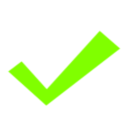
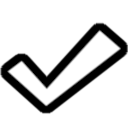
Add libjpeg-turbo submodule and update checkmark color
- Add libjpeg-turbo as a submodule in lib/ - Update check.png asset -
Refactor main.cpp: remove unused menu code, improve photo selection
logic, change checkmark highlight to use COLOR_SELECTED_GREEN

diff --git a/src/main.cpp b/src/main.cpp
@@ -59,230 +59,27 @@ struct Photo {
 
 std::vector<Photo> photos;
 
-inline void DropDownMenuSeperator() {
-  CLAY({
-      .layout =
-          {
-              .sizing =
-                  {
-                      .width = CLAY_SIZING_GROW(0),
-                      .height = CLAY_SIZING_FIT(0),
-                  },
-              .padding =
-                  {
-                      .left = 0,
-                      .right = 0,
-                      .top = 2,
-                      .bottom = 2,
-                  },
-          },
-  }) {
-    CLAY({
-        .layout =
-            {
-                .sizing =
-                    {
-                        .width = CLAY_SIZING_GROW(0),
-                        .height = CLAY_SIZING_FIXED(1),
-                    },
-            },
-        .backgroundColor = COLOR_GREY,
-    }) {}
-  }
-}
-
-inline void DropDownMenuButton(Clay_String label) {
-  CLAY({
-      .layout =
-          {
-              .sizing =
-                  {
-                      .width = CLAY_SIZING_GROW(0),
-                      .height = CLAY_SIZING_FIT(0),
-                  },
-              .padding =
-                  {
-                      .left = 4,
-                      .right = 4,
-                      .top = 4,
-                      .bottom = 4,
-                  },
-              .childAlignment =
-                  {
-                      .x = CLAY_ALIGN_X_LEFT,
-                      .y = CLAY_ALIGN_Y_CENTER,
-                  },
-          },
-      .backgroundColor = Clay_Hovered() ? COLOR_GREY : COLOR_DARK_GREY,
-      .cornerRadius =
-          {
-              .topLeft = 3,
-              .topRight = 3,
-              .bottomLeft = 3,
-              .bottomRight = 3,
-          },
-  }) {
-    CLAY_TEXT(label, CLAY_TEXT_CONFIG({
-                         .textColor = {255, 255, 255, 255},
-                         .fontSize = 12,
-                     }));
-  }
-}
-
-inline void SessionDropdownMenu() {
-  DropDownMenuButton(CLAY_STRING("New Session"));
-  DropDownMenuButton(CLAY_STRING("Open Session..."));
-  DropDownMenuSeperator();
-  DropDownMenuButton(CLAY_STRING("Save Session"));
-  DropDownMenuButton(CLAY_STRING("Save Session As..."));
-  DropDownMenuSeperator();
-  DropDownMenuButton(CLAY_STRING("Close Session"));
-  DropDownMenuButton(CLAY_STRING("Exit"));
-}
-
-inline void EditDropdownMenu() {
-  DropDownMenuButton(CLAY_STRING("Undo"));
-  DropDownMenuButton(CLAY_STRING("Redo"));
-  DropDownMenuSeperator();
-  DropDownMenuButton(CLAY_STRING("Cut"));
-  DropDownMenuButton(CLAY_STRING("Copy"));
-  DropDownMenuButton(CLAY_STRING("Paste"));
-  DropDownMenuSeperator();
-  DropDownMenuButton(CLAY_STRING("Delete Selected"));
-  DropDownMenuButton(CLAY_STRING("Select All"));
-}
-
-inline void ViewDropdownMenu() {
-  DropDownMenuButton(CLAY_STRING("Zoom In"));
-  DropDownMenuButton(CLAY_STRING("Zoom Out"));
-  DropDownMenuButton(CLAY_STRING("Actual Size"));
-  DropDownMenuSeperator();
-  DropDownMenuButton(CLAY_STRING("Show Grid"));   // Toggle or submenu
-  DropDownMenuButton(CLAY_STRING("Show Rulers")); // Toggle or submenu
-  DropDownMenuSeperator();
-  DropDownMenuButton(CLAY_STRING("Fullscreen"));
-  DropDownMenuButton(CLAY_STRING("Preferences..."));
-}
-
-inline void HelpDropdownMenu() {
-  DropDownMenuButton(CLAY_STRING("View Help"));
-  DropDownMenuButton(CLAY_STRING("Keyboard Shortcuts"));
-  DropDownMenuSeperator();
-  DropDownMenuButton(CLAY_STRING("Check for Updates..."));
-  DropDownMenuSeperator();
-  DropDownMenuButton(CLAY_STRING("About PhotoSorter"));
-}
-
-inline void MenuBarButton(Clay_String label, void (*dropdown_menu)()) {
-  CLAY({
-      .id = CLAY_SIDI(label, 0),
-      .layout =
-          {
-              .sizing = {.width = CLAY_SIZING_FIT(0),
-                         .height = CLAY_SIZING_FIT(0)},
-              .padding =
-                  {
-                      .left = 4,
-                      .right = 4,
-                      .top = 4,
-                      .bottom = 4,
-                  },
-              .childAlignment =
-                  {
-                      .x = CLAY_ALIGN_X_CENTER,
-                      .y = CLAY_ALIGN_Y_CENTER,
-                  },
-          },
-      .backgroundColor = Clay_Hovered() ? COLOR_GREY : COLOR_DARK_GREY,
-      .cornerRadius =
-          {
-              .topLeft = 3,
-              .topRight = 3,
-              .bottomLeft = 3,
-              .bottomRight = 3,
-          },
-  }) {
-    CLAY_TEXT(label, CLAY_TEXT_CONFIG({
-                         .textColor = {255, 255, 255, 255},
-                         .fontSize = 12,
-                     }));
-
-    bool file_menu_visible =
-        Clay_PointerOver(Clay_GetElementIdWithIndex(label, 0)) ||
-        Clay_PointerOver(Clay_GetElementIdWithIndex(label, 1));
-
-    if (file_menu_visible) {
-      CLAY({
-          .id = CLAY_SIDI(label, 1),
-          .layout =
-              {
-                  .sizing =
-                      {
-                          .width = CLAY_SIZING_FIXED(192),
-                          .height = CLAY_SIZING_FIT(0),
-                      },
-                  .padding = CLAY_PADDING_ALL(3),
-              },
-          .backgroundColor = COLOR_WHITE,
-          .cornerRadius =
-              {
-                  .topLeft = 8,
-                  .topRight = 8,
-                  .bottomLeft = 8,
-                  .bottomRight = 8,
-              },
-          .floating =
-              {
-                  .zIndex = 1,
-                  .attachPoints =
-                      {
-                          .parent = CLAY_ATTACH_POINT_LEFT_BOTTOM,
-                      },
-                  .attachTo = CLAY_ATTACH_TO_PARENT,
-              },
-          .border =
-              {
-                  .color = COLOR_BLACK,
-                  .width =
-                      {
-                          .left = 2,
-                          .right = 2,
-                          .top = 2,
-                          .bottom = 2,
-                      },
-              },
-      }) {
-        CLAY({
-            .layout =
-                {
-                    .sizing =
-                        {
-                            .width = CLAY_SIZING_GROW(0),
-                            .height = CLAY_SIZING_GROW(0),
-                        },
-                    .padding = CLAY_PADDING_ALL(2),
-                    .layoutDirection = CLAY_TOP_TO_BOTTOM,
-                },
-            .backgroundColor = COLOR_DARK_GREY,
-            .cornerRadius =
-                {
-                    .topLeft = 5,
-                    .topRight = 5,
-                    .bottomLeft = 5,
-                    .bottomRight = 5,
-                },
-        }) {
-          dropdown_menu();
-        }
-      }
+int get_selected_photos_count() {
+  int count = 0;
+  for (auto photo : photos) {
+    if (photo.selected) {
+      count++;
     }
   }
+  return count;
 }
 
-std::string edge_sheen_path = "res/edge_sheen.png";
+void handle_clay_errors(Clay_ErrorData errorData) {
+  // See the Clay_ErrorData struct for more information
+  printf("%s", errorData.errorText.chars);
+  switch (errorData.errorType) {
+    // etc
+  }
+}
 
-void HandleButtonInteraction(Clay_ElementId elementId,
-                             Clay_PointerData pointerInfo, intptr_t userData) {
+void handle_photo_item_interaction(Clay_ElementId elementId,
+                                   Clay_PointerData pointerInfo,
+                                   intptr_t userData) {
   Photo *photo = (Photo *)userData;
   // Pointer state allows you to detect mouse down / hold / release
   if (pointerInfo.state == CLAY_POINTER_DATA_PRESSED_THIS_FRAME) {
@@ -329,7 +126,7 @@ inline void PhotoItem(Photo &photo) {
                   },
           },
   }) {
-    Clay_OnHover(HandleButtonInteraction, (intptr_t)&photo);
+    Clay_OnHover(handle_photo_item_interaction, (intptr_t)&photo);
     CLAY({
         .layout =
             {
@@ -422,7 +219,7 @@ inline void PhotoItem(Photo &photo) {
                           },
                   },
               .backgroundColor =
-                  photo.selected ? COLOR_PURE_WHITE : COLOR_TRANSPARENT,
+                  photo.selected ? COLOR_SELECTED_GREEN : COLOR_TRANSPARENT,
               .image =
                   {
                       .imageData = static_cast<void *>(&check_data),
@@ -433,25 +230,6 @@ inline void PhotoItem(Photo &photo) {
     }
   }
 }
-
-void handle_clay_errors(Clay_ErrorData errorData) {
-  // See the Clay_ErrorData struct for more information
-  printf("%s", errorData.errorText.chars);
-  switch (errorData.errorType) {
-    // etc
-  }
-}
-
-static inline Clay_Dimensions MeasureText(Clay_StringSlice text,
-                                          Clay_TextElementConfig *config,
-                                          void *userData) {
-  float scalar = config->fontSize / renderer.font_sample_point_size;
-  return (Clay_Dimensions){.width = (float)text.length * renderer.glyph_size.x *
-                                    scalar,
-                           .height = (float)renderer.glyph_size.y * scalar};
-}
-
-void ImageGrid() {}
 
 void Button(Clay_String label) {
   // Finalize button
@@ -588,14 +366,13 @@ void Tally(Clay_String label) {
   }
 }
 
-int get_selected_photos_count() {
-  int count = 0;
-  for (auto photo : photos) {
-    if (photo.selected) {
-      count++;
-    }
-  }
-  return count;
+static inline Clay_Dimensions MeasureText(Clay_StringSlice text,
+                                          Clay_TextElementConfig *config,
+                                          void *userData) {
+  float scalar = config->fontSize / renderer.font_sample_point_size;
+  return (Clay_Dimensions){.width = (float)text.length * renderer.glyph_size.x *
+                                    scalar,
+                           .height = (float)renderer.glyph_size.y * scalar};
 }
 
 bool init() {
